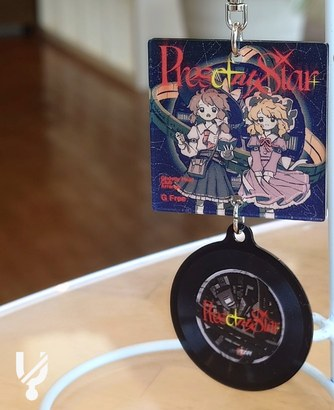
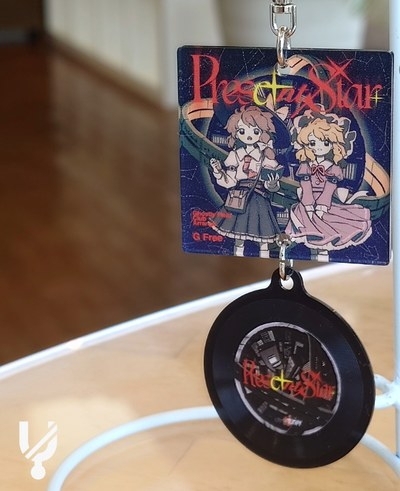
GOODS を LIVE と同じカード形式にする
専用の .goods をやめ、LIVE と同じ .gigs > .gig の構造にした。
列幅・余白・角丸・間隔・スマホでの縦積みまで LIVE と同一になる
（計算後のスタイルを比較して一致を確認した）。
これに伴い、.gig 用の規則を .goods にも当てていたグループ化と、
専用のサイズ指定を外して CSS を元に戻した。

写真は 200px 表示（2倍密度で400px）に合わせて原本から切り直した
（400×491 / 44KB）。リンクが2つ並ぶ分だけ .gig-link.two で間隔を足した。

diff --git a/index.html b/index.html
@@ -107,23 +107,25 @@
 <section id="goods" class="wrap">
   <h2><span class="idx">03</span>GOODS</h2>
 
-  <div class="goods">
-    <img src="assets/goods/presentstar.jpg" alt="秘封レコードキーホルダー「Present Star」" width="334" height="410" loading="lazy">
-    <div class="meta">
-      <div class="d">2025.05.05</div>
-      <div class="t">Present Star<br>秘封レコードキーホルダー</div>
-      <div class="o">
-        AR機能で東方アレンジが聴ける、ジャケットとレコードの2連アクリルキーホルダー。
-        付属のレコードをARアプリ「COCOAR」（無料）で読み取ると曲が流れます。<br>
-        第二十二回博麗神社例大祭で頒布 ／ 500円
+  <div class="gigs">
+    <div class="gig">
+      <img src="assets/goods/presentstar.jpg" alt="秘封レコードキーホルダー「Present Star」" width="400" height="491" loading="lazy">
+      <div class="meta">
+        <div class="d">2025.05.05</div>
+        <div class="t">Present Star<br>秘封レコードキーホルダー</div>
+        <div class="o">
+          AR機能で東方アレンジが聴ける、ジャケットとレコードの2連アクリルキーホルダー。
+          付属のレコードをARアプリ「COCOAR」（無料）で読み取ると曲が流れます。<br>
+          第二十二回博麗神社例大祭で頒布 ／ 500円
+        </div>
+        <div class="cast">
+          Illust: ねるぞう（スタジオシープ） ／ Arrange: overTuner ／ Vocal: タダオ ／ Design: 此糸ウルヱ
+        </div>
+        <p class="gig-link two">
+          <a href="https://www.youtube.com/shorts/na88OHm4ZxY" rel="noopener">紹介動画 →</a>
+          <a href="https://manual.coco-ar.com/appli/applidownload2.html" rel="noopener">COCOAR ダウンロード →</a>
+        </p>
       </div>
-      <div class="cast">
-        Illust: ねるぞう（スタジオシープ） ／ Arrange: overTuner ／ Vocal: タダオ ／ Design: 此糸ウルヱ
-      </div>
-      <p class="goods-link">
-        <a href="https://www.youtube.com/shorts/na88OHm4ZxY" rel="noopener">紹介動画 →</a>
-        <a href="https://manual.coco-ar.com/appli/applidownload2.html" rel="noopener">COCOAR ダウンロード →</a>
-      </p>
     </div>
   </div>
 </section>

diff --git a/assets/style.css b/assets/style.css
@@ -345,7 +345,7 @@ h2 .idx {
 
 /* ── ライブ履歴 ─────────────────────── */
 .gigs { display: grid; gap: 1.25rem; }
-.gig, .goods {
+.gig {
   display: grid;
   grid-template-columns: 200px 1fr;
   gap: 1.5rem;
@@ -355,40 +355,31 @@ h2 .idx {
   border-radius: .75rem;
   background: color-mix(in srgb, var(--panel) 70%, transparent);
 }
-.gig img, .goods img {
+.gig img {
   width: 100%; height: auto; display: block;
   border-radius: .4rem;
   border: 1px solid var(--line);
 }
-.gig .d, .goods .d {
+.gig .d {
   color: var(--accent);
   font-size: .78rem; letter-spacing: .14em; font-weight: 700;
 }
-.gig .t, .goods .t { font-weight: 600; font-size: 1.25rem; line-height: 1.4; margin-top: .35rem; }
-.gig .o, .goods .o { color: var(--muted); font-size: .88rem; line-height: 1.8; margin-top: .5rem; }
-.gig .cast, .goods .cast {
+.gig .t { font-weight: 600; font-size: 1.25rem; line-height: 1.4; margin-top: .35rem; }
+.gig .o { color: var(--muted); font-size: .88rem; line-height: 1.8; margin-top: .5rem; }
+.gig .cast {
   color: var(--muted); font-size: .8rem; line-height: 1.8;
   margin-top: .9rem; padding-top: .8rem;
   border-top: 1px solid var(--line);
 }
 @media (max-width: 34rem) {
-  .gig, .goods { grid-template-columns: 1fr; gap: 1rem; }
-  .gig img, .goods img { max-width: 240px; }
+  .gig { grid-template-columns: 1fr; gap: 1rem; }
+  .gig img { max-width: 240px; }
 }
 .gig-link { margin: .8rem 0 0; font-size: .85rem; }
 .gig-link a { text-decoration: none; }
 
-/* グッズ: 写真は控えめに小さく出す */
-.goods { grid-template-columns: 120px 1fr; }
-@media (max-width: 34rem) {
-  .goods { grid-template-columns: 1fr; }
-  .goods img { max-width: 120px; }
-}
-.goods-link {
-  display: flex; flex-wrap: wrap; gap: .4rem 1.4rem;
-  margin: .8rem 0 0; font-size: .85rem;
-}
-.goods-link a { text-decoration: none; }
+/* リンクが2つ並ぶときの間隔（LIVE は1つだけ） */
+.gig-link.two { display: flex; flex-wrap: wrap; gap: .4rem 1.4rem; }
 
 /* ── プラットフォームのアイコン ─────────── */
 .chips a {
